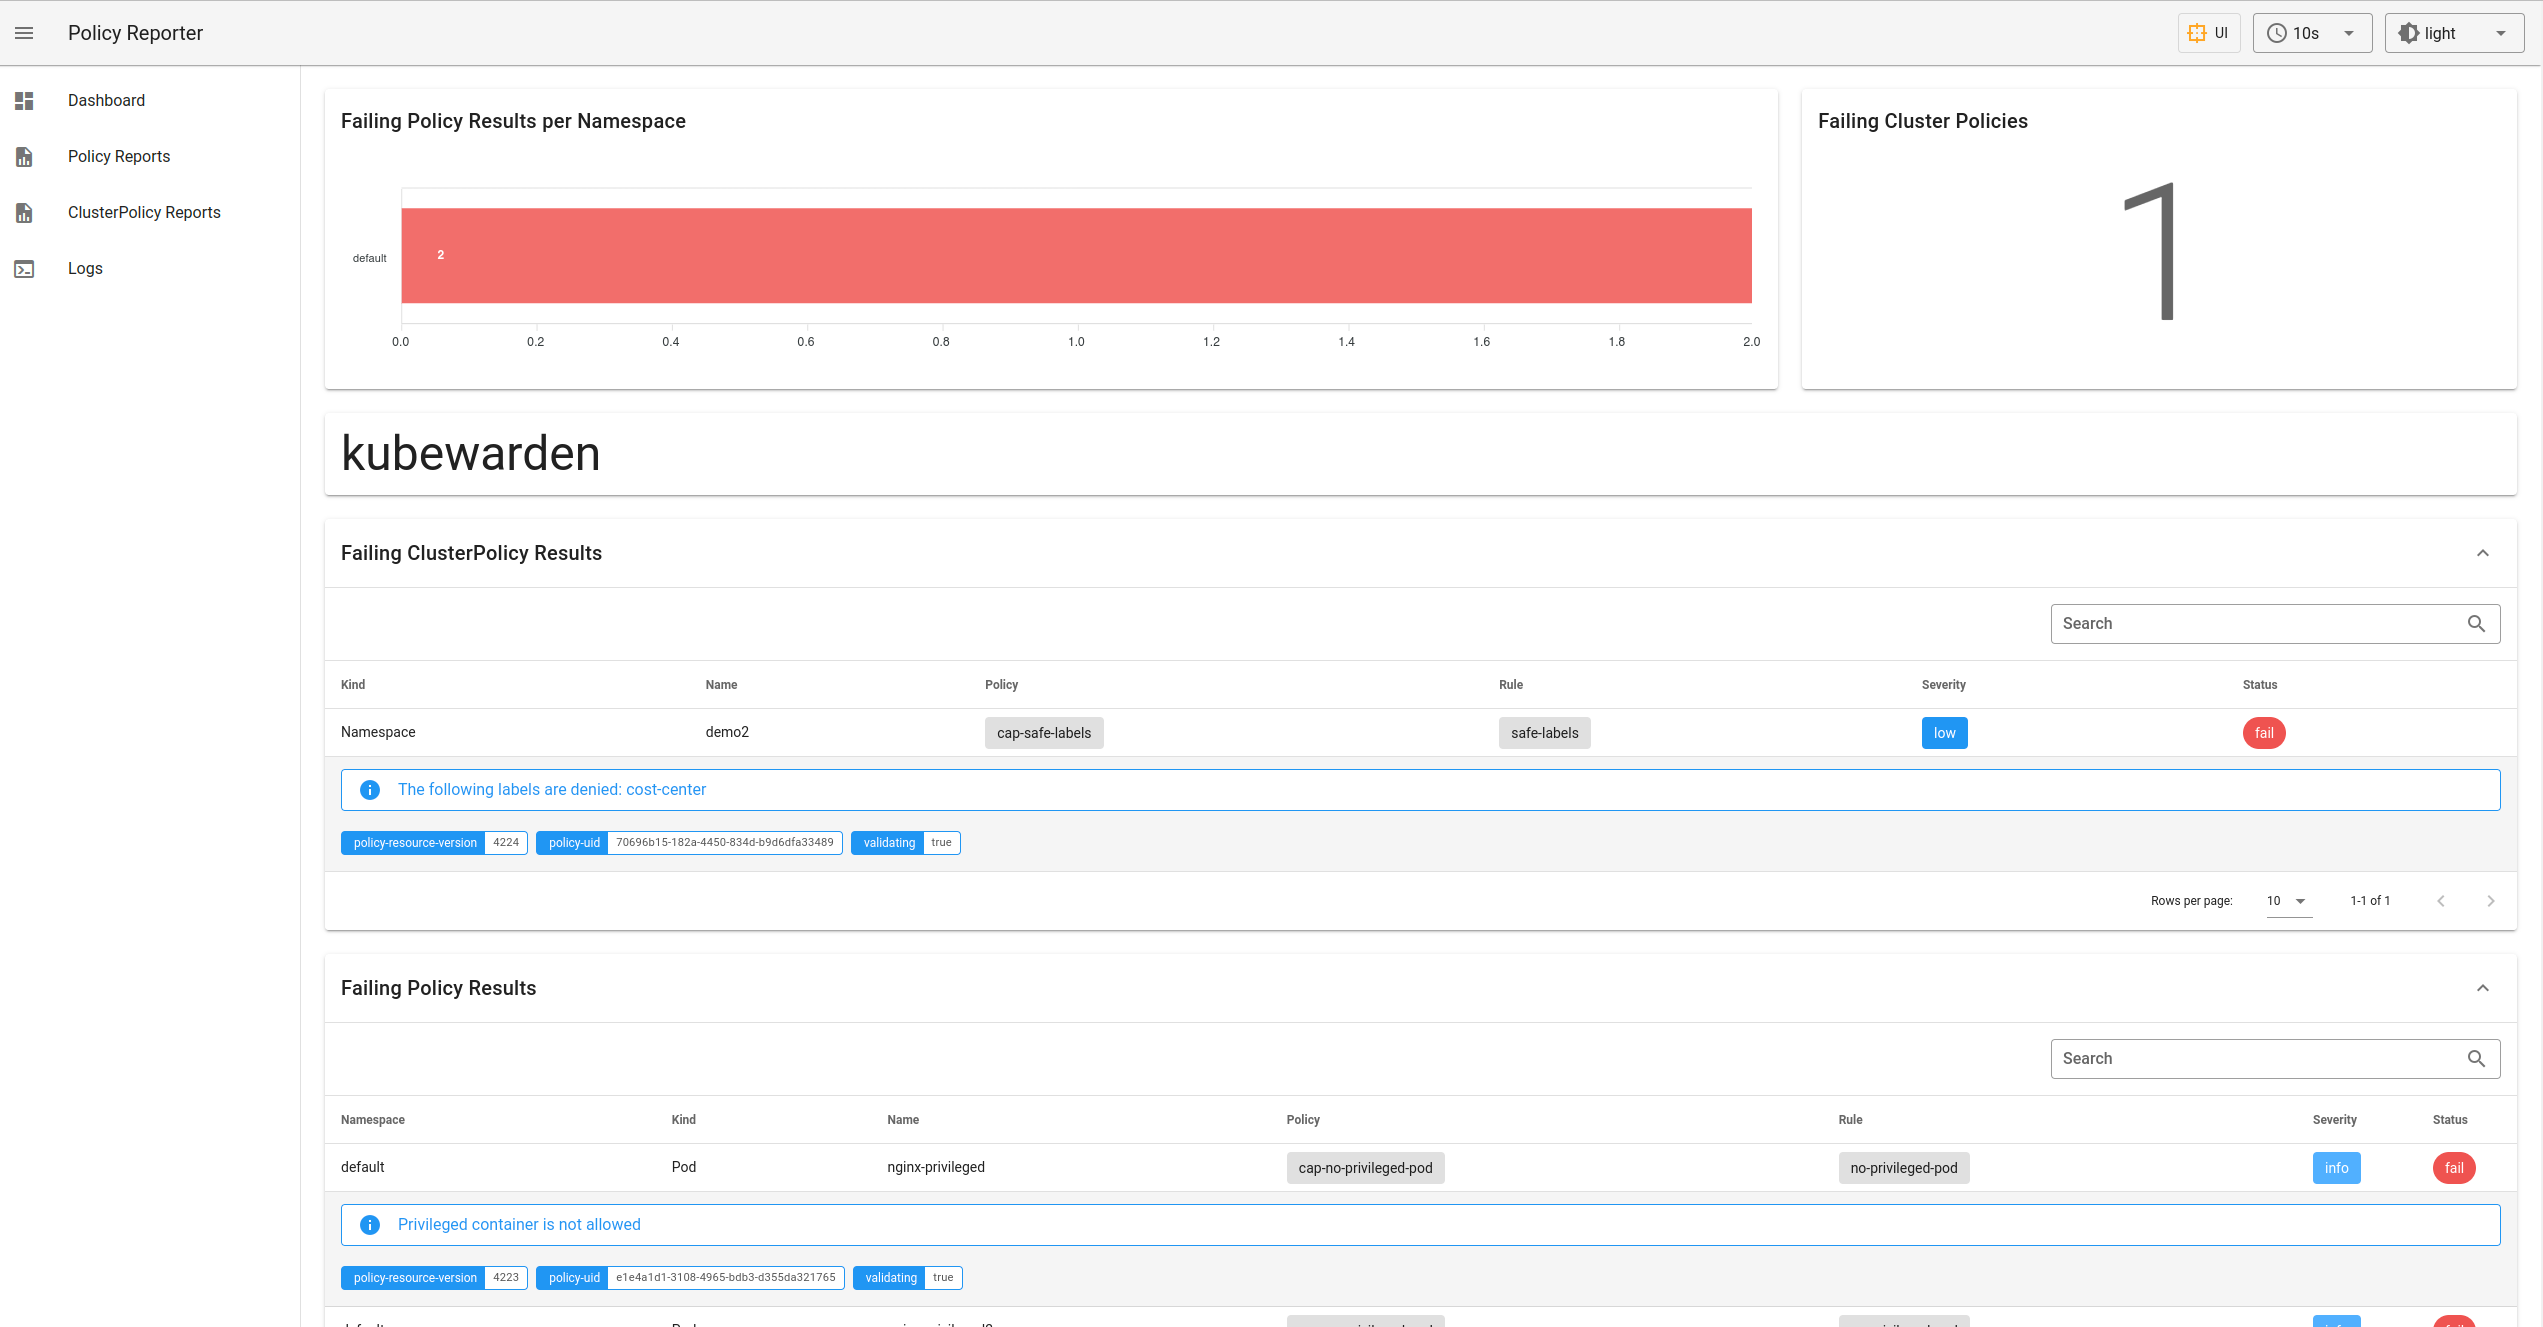
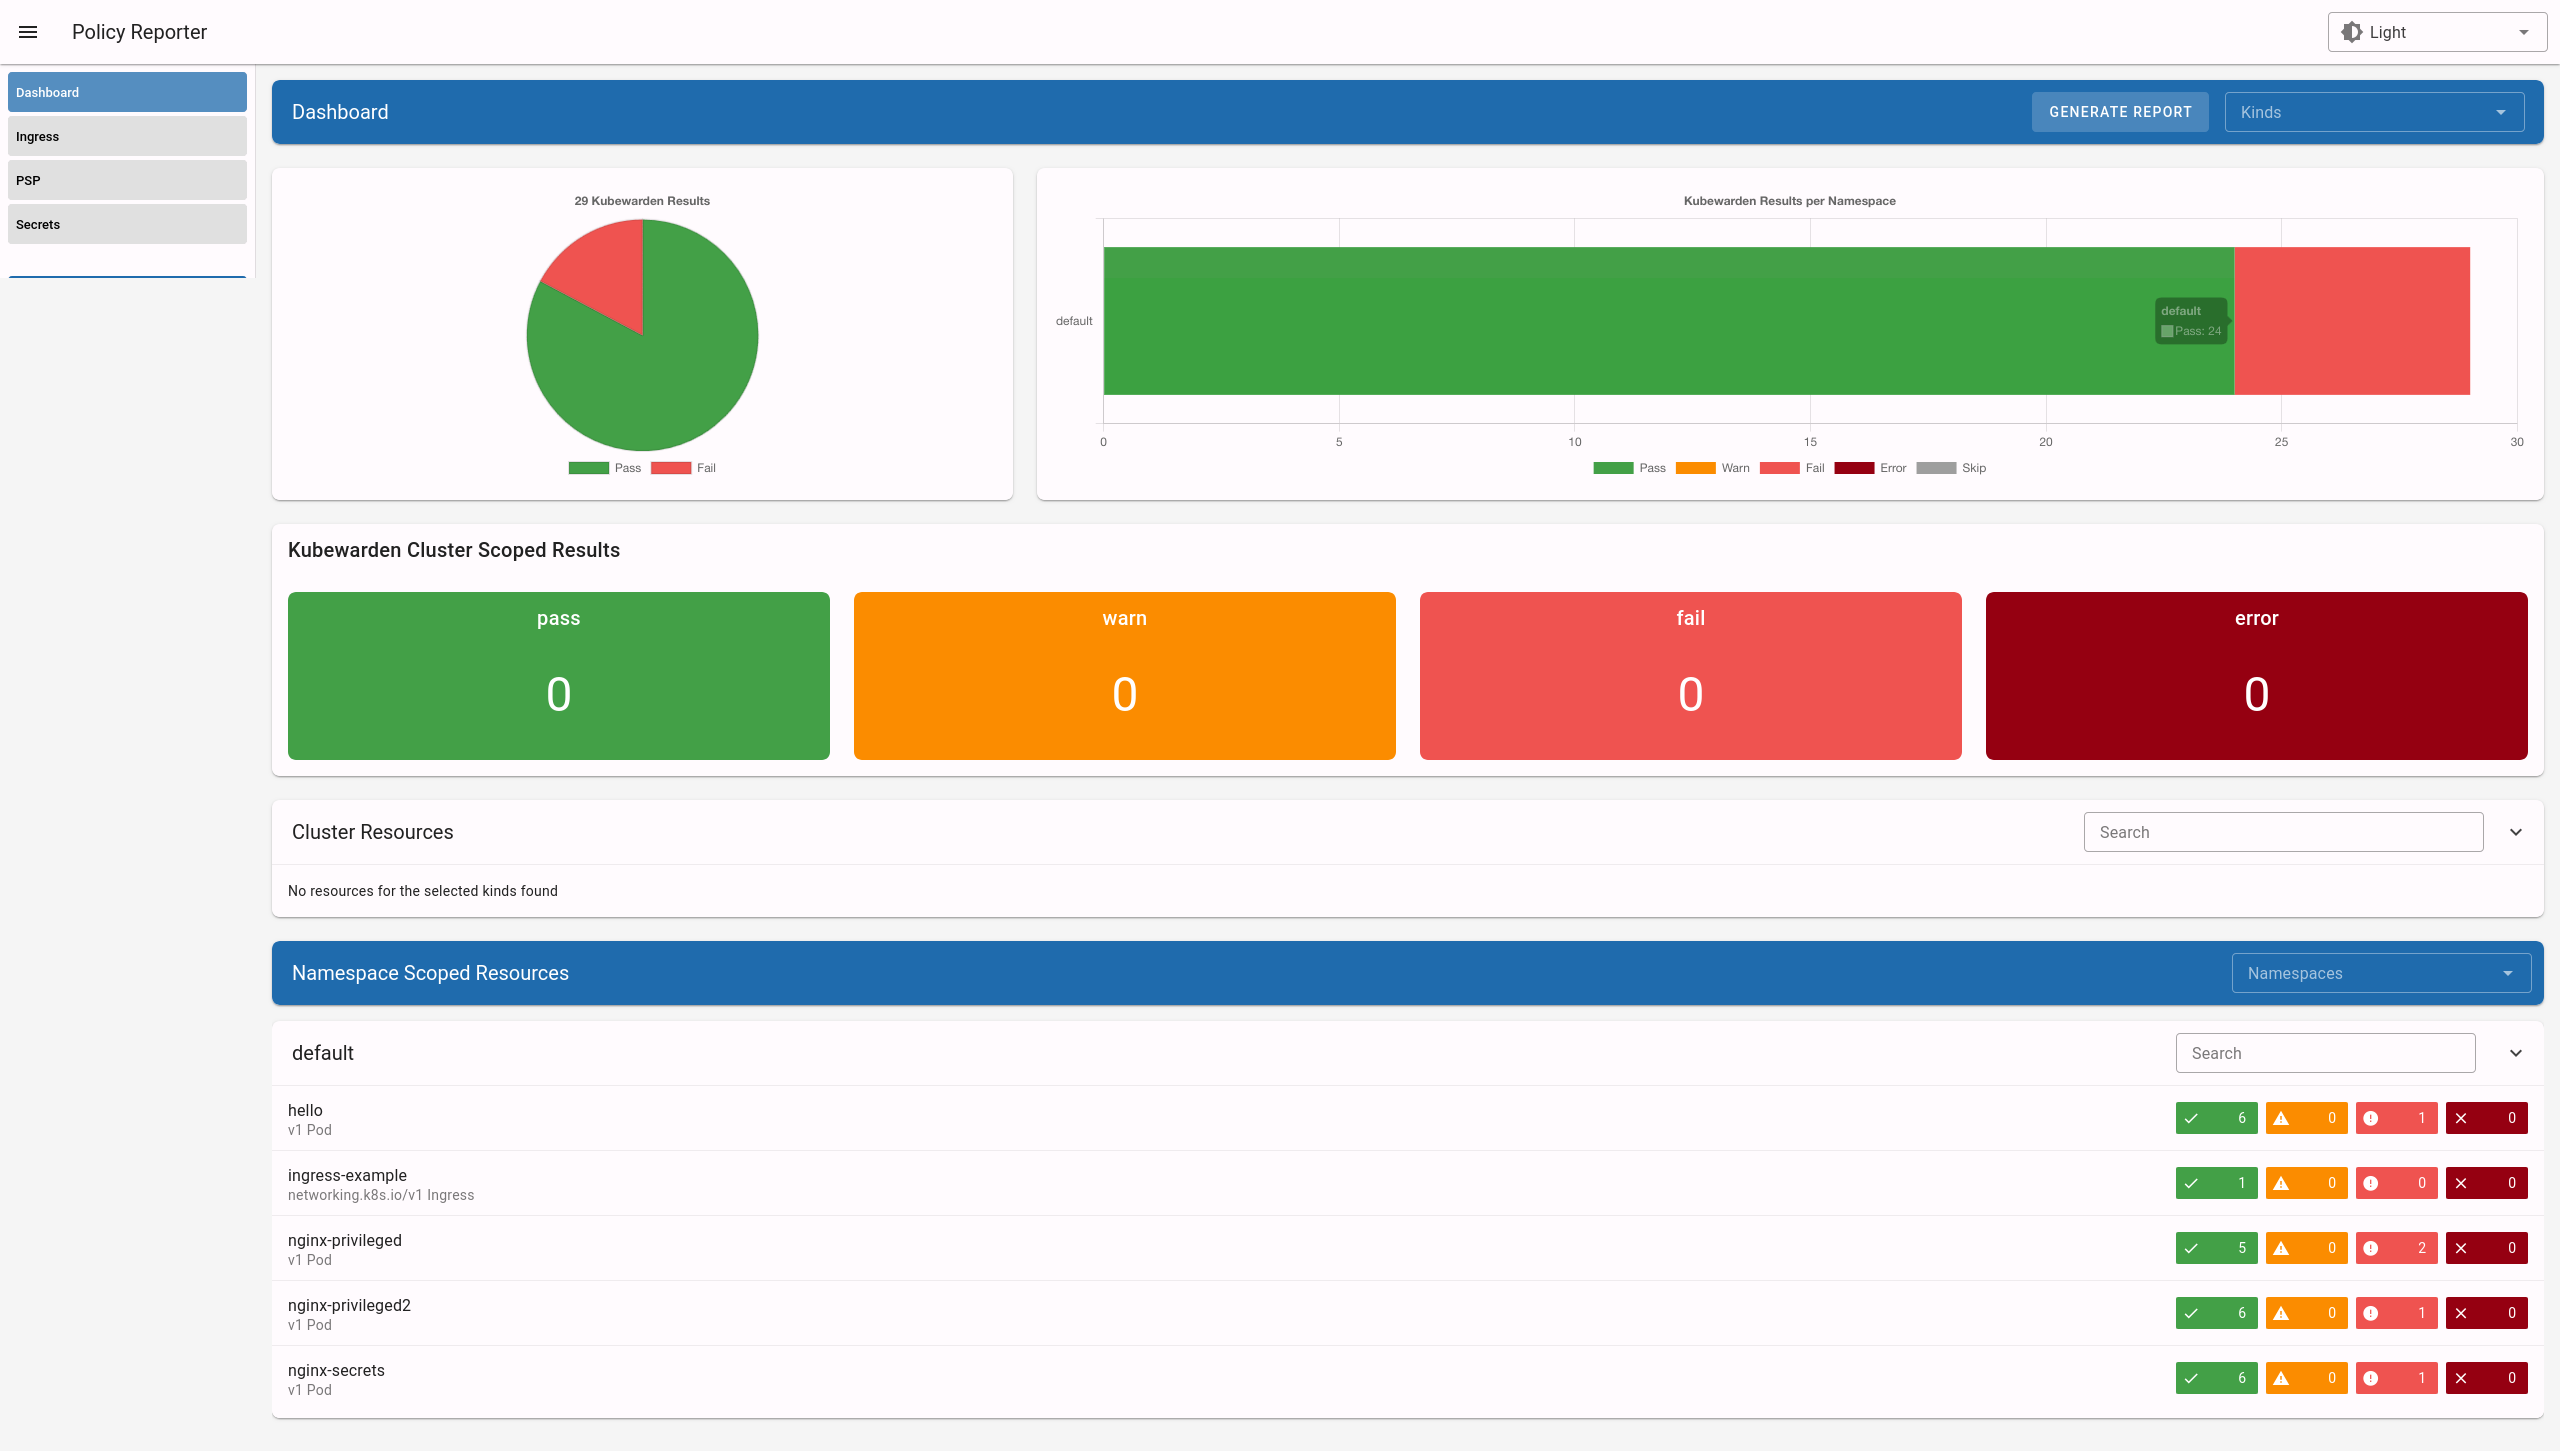
Update policy-reporter content to v3.0

diff --git a/docs/explanations/audit-scanner/policy-reports.md b/docs/explanations/audit-scanner/policy-reports.md
@@ -4,7 +4,12 @@ title: Audit Scanner - Policy Reports
 description: The policy reports that the Audit Scanner produces.
 keywords: [kubewarden, kubernetes, audit scanner]
 doc-persona:
-  [kubewarden-user, kubewarden-operator, kubewarden-policy-developer, kubewarden-integrator]
+  [
+    kubewarden-user,
+    kubewarden-operator,
+    kubewarden-policy-developer,
+    kubewarden-integrator,
+  ]
 doc-type: [explanation]
 doc-topic: [explanations, audit-scanner, policy-reports]
 ---
@@ -209,14 +214,17 @@ The Policy Reporter is shipped as a subchart of `kubewarden-controller`.
 Refer to the [Audit Scanner Installation](../../howtos/audit-scanner)
 page for more information.
 
-The Policy Reporter UI provides a dashboard showing all violations
-from `PolicyReports` and the `ClusterPolicyReport` as shown in the screenshot below.
+The Policy Reporter UI provides a dashboard showing all violations as shown in the screenshot below:
 
 ![Policy Reporter dashboard example](/img/policy-reporter_dashboard.png)
 
-It also provides a tab for PolicyReports, and a tab for ClusterPolicyReports, with expanded information.
+We ship the Policy Reporter UI with a preconfigured filter that only shows Kubewarden policies, with expanded information:
 
-![Policy Reporter PolicyReports example](/img/policy-reporter_policyreports.png)
+![Policy Reporter Kubewarden section example](/img/policy-reporter_kubewarden-filter.png)
+
+If one clicks on a specific policy or resource, one can see s summary of results for those:
+
+![Policy Reporter Kubewarden section example](/img/policy-reporter_per-resource.png)
 
 Other features of Policy Reporter include forwarding of results to different
 clients (like Grafana Loki, Elasticsearch, chat applications), metrics

diff --git a/docs/reference/dependency-matrix.md b/docs/reference/dependency-matrix.md
@@ -34,7 +34,7 @@ Needed for specific features.
 | `open-telemetry/opentelemetry-operator` chart      |       `>= 0.104`        |              Example: `0.65.0`               |       OTLM        |
 | `prometheus-community/kube-prometheus-stack` chart |       `>= v0.69`        |              Example: `51.5.3`               |      Metrics      |
 | `jaegertracing/jaeger-operator` chart              |      `>= 1.49 < 2`      |              Example: `2.49.0`               |      Tracing      |
-| `kyverno/policy-reporter` chart                    |       `>= 2 < 3`        | In `kubewarden-controller` chart as subchart | Policy Reports UI |
+| `kyverno/policy-reporter` chart                    |       `>= 2 < 4`        | In `kubewarden-controller` chart as subchart | Policy Reports UI |
 
 | CRD dependency                      |  Version   |                 Helm chart `version`                 |    Feature    |
 | ----------------------------------- | :--------: | :--------------------------------------------------: | :-----------: |

diff --git a/docs/howtos/airgap/02-install.md b/docs/howtos/airgap/02-install.md
@@ -158,7 +158,7 @@ helm install --wait -n kubewarden kubewarden-controller kubewarden-controller.tg
 It's necessary to define `auditScanner.policyReporter` to enable the sub-chart and 4 more values,
 to configure the registry and repository where the Policy Reporter images are stored.
 For more information about the policy report sub-chart values see
-[chart repository](https://github.com/kyverno/policy-reporter/tree/policy-reporter-2.19.4/charts/policy-reporter).
+[Policy Reporter documentation](https://kyverno.github.io/policy-reporter-docs/getting-started/helm.html).
 :::
 
 ```shell
